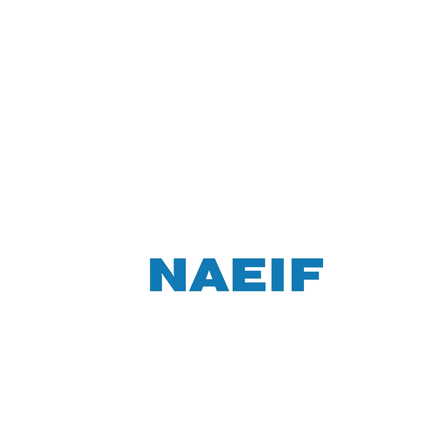
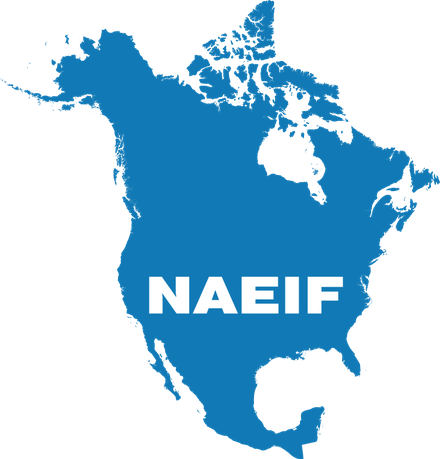
Add NAEIF to partner wall; limit recognition band to the homepage
NAEIF's supplied mark is a white North America silhouette with a blue
wordmark knocked out of it, built for dark backgrounds: on the white logo
tiles only the blue "NAEIF" text was visible. Swapped the two colors so the
continent is NAEIF's own blue and the wordmark knocks out white, which reads
correctly on a light tile without introducing any color they don't already
use. The as-supplied reversed mark is kept at partners/naeif-reversed.png.

It is also the only square mark on the wall, so a shared 52px height made it
look half the size of the wordmark logos; .logo-tile--square gives it 74px,
which keeps every grid row the same height.

The recognition band now appears on the homepage only, removed from the other
19 pages.

diff --git a/our-partners.html b/our-partners.html
@@ -111,6 +111,7 @@
         <div class="logo-tile"><img src="images/partners/google-for-nonprofits.png" alt="Google for Nonprofits logo" loading="lazy" /></div>
         <div class="logo-tile"><img src="images/partners/finmango.png" alt="FinMango logo"  loading="lazy" /></div>
         <div class="logo-tile"><img src="images/partners/young-investors-society.png" alt="Young Investors Society logo"  loading="lazy" /></div>
+        <div class="logo-tile logo-tile--square"><img src="images/partners/naeif.png" alt="North American Educational Initiatives Foundation logo" loading="lazy" /></div>
         <div class="logo-tile"><img src="images/partners/rutgers.png" alt="Rutgers University logo"  loading="lazy" /></div>
         <div class="logo-tile"><img src="images/partners/seton-hall.png" alt="Seton Hall University logo" loading="lazy" /></div>
         <div class="logo-tile"><img src="images/partners/princeton.png" alt="Princeton University logo"  loading="lazy" /></div>
@@ -198,18 +199,6 @@
   </section>
 
 </main>
-
-<section class="recognition-band">
-  <div class="container">
-    <p class="rb-label">Recognition</p>
-    <ul class="rb-list">
-      <li><img src="images/gra-badge.png" alt="Global Recognition Awards" loading="lazy" /><span>Global Recognition Awards</span></li>
-      <li><img src="images/partners/pvsa.png" alt="President&#39;s Volunteer Service Award" loading="lazy" /><span>President&#39;s Volunteer Service Award</span></li>
-      <li><img src="images/partners/maia.png" alt="Money Awareness and Inclusion Awards" loading="lazy" /><span>Money Awareness &amp; Inclusion Awards</span></li>
-      <li><img src="images/partners/points-of-light.png" alt="Daily Point of Light Award" loading="lazy" /><span>Daily Point of Light Award</span></li>
-    </ul>
-  </div>
-</section>
 
 <footer class="site-footer">
   <div class="container">

diff --git a/404.html b/404.html
@@ -124,18 +124,6 @@
 
 </main>
 
-<section class="recognition-band">
-  <div class="container">
-    <p class="rb-label">Recognition</p>
-    <ul class="rb-list">
-      <li><img src="images/gra-badge.png" alt="Global Recognition Awards" loading="lazy" /><span>Global Recognition Awards</span></li>
-      <li><img src="images/partners/pvsa.png" alt="President&#39;s Volunteer Service Award" loading="lazy" /><span>President&#39;s Volunteer Service Award</span></li>
-      <li><img src="images/partners/maia.png" alt="Money Awareness and Inclusion Awards" loading="lazy" /><span>Money Awareness &amp; Inclusion Awards</span></li>
-      <li><img src="images/partners/points-of-light.png" alt="Daily Point of Light Award" loading="lazy" /><span>Daily Point of Light Award</span></li>
-    </ul>
-  </div>
-</section>
-
 <footer class="site-footer">
   <div class="container">
     <div class="footer-grid">

diff --git a/about-us.html b/about-us.html
@@ -184,18 +184,6 @@
 
 </main>
 
-<section class="recognition-band">
-  <div class="container">
-    <p class="rb-label">Recognition</p>
-    <ul class="rb-list">
-      <li><img src="images/gra-badge.png" alt="Global Recognition Awards" loading="lazy" /><span>Global Recognition Awards</span></li>
-      <li><img src="images/partners/pvsa.png" alt="President&#39;s Volunteer Service Award" loading="lazy" /><span>President&#39;s Volunteer Service Award</span></li>
-      <li><img src="images/partners/maia.png" alt="Money Awareness and Inclusion Awards" loading="lazy" /><span>Money Awareness &amp; Inclusion Awards</span></li>
-      <li><img src="images/partners/points-of-light.png" alt="Daily Point of Light Award" loading="lazy" /><span>Daily Point of Light Award</span></li>
-    </ul>
-  </div>
-</section>
-
 <footer class="site-footer">
   <div class="container">
     <div class="footer-grid">

diff --git a/impact.html b/impact.html
@@ -175,18 +175,6 @@
 
 </main>
 
-<section class="recognition-band">
-  <div class="container">
-    <p class="rb-label">Recognition</p>
-    <ul class="rb-list">
-      <li><img src="images/gra-badge.png" alt="Global Recognition Awards" loading="lazy" /><span>Global Recognition Awards</span></li>
-      <li><img src="images/partners/pvsa.png" alt="President&#39;s Volunteer Service Award" loading="lazy" /><span>President&#39;s Volunteer Service Award</span></li>
-      <li><img src="images/partners/maia.png" alt="Money Awareness and Inclusion Awards" loading="lazy" /><span>Money Awareness &amp; Inclusion Awards</span></li>
-      <li><img src="images/partners/points-of-light.png" alt="Daily Point of Light Award" loading="lazy" /><span>Daily Point of Light Award</span></li>
-    </ul>
-  </div>
-</section>
-
 <footer class="site-footer">
   <div class="container">
     <div class="footer-grid">

diff --git a/media.html b/media.html
@@ -261,18 +261,6 @@
 
 </main>
 
-<section class="recognition-band">
-  <div class="container">
-    <p class="rb-label">Recognition</p>
-    <ul class="rb-list">
-      <li><img src="images/gra-badge.png" alt="Global Recognition Awards" loading="lazy" /><span>Global Recognition Awards</span></li>
-      <li><img src="images/partners/pvsa.png" alt="President&#39;s Volunteer Service Award" loading="lazy" /><span>President&#39;s Volunteer Service Award</span></li>
-      <li><img src="images/partners/maia.png" alt="Money Awareness and Inclusion Awards" loading="lazy" /><span>Money Awareness &amp; Inclusion Awards</span></li>
-      <li><img src="images/partners/points-of-light.png" alt="Daily Point of Light Award" loading="lazy" /><span>Daily Point of Light Award</span></li>
-    </ul>
-  </div>
-</section>
-
 <footer class="site-footer">
   <div class="container">
     <div class="footer-grid">

diff --git a/meet-the-team.html b/meet-the-team.html
@@ -160,18 +160,6 @@
 
 </main>
 
-<section class="recognition-band">
-  <div class="container">
-    <p class="rb-label">Recognition</p>
-    <ul class="rb-list">
-      <li><img src="images/gra-badge.png" alt="Global Recognition Awards" loading="lazy" /><span>Global Recognition Awards</span></li>
-      <li><img src="images/partners/pvsa.png" alt="President&#39;s Volunteer Service Award" loading="lazy" /><span>President&#39;s Volunteer Service Award</span></li>
-      <li><img src="images/partners/maia.png" alt="Money Awareness and Inclusion Awards" loading="lazy" /><span>Money Awareness &amp; Inclusion Awards</span></li>
-      <li><img src="images/partners/points-of-light.png" alt="Daily Point of Light Award" loading="lazy" /><span>Daily Point of Light Award</span></li>
-    </ul>
-  </div>
-</section>
-
 <footer class="site-footer">
   <div class="container">
     <div class="footer-grid">

diff --git a/our-story.html b/our-story.html
@@ -164,18 +164,6 @@
 
 </main>
 
-<section class="recognition-band">
-  <div class="container">
-    <p class="rb-label">Recognition</p>
-    <ul class="rb-list">
-      <li><img src="images/gra-badge.png" alt="Global Recognition Awards" loading="lazy" /><span>Global Recognition Awards</span></li>
-      <li><img src="images/partners/pvsa.png" alt="President&#39;s Volunteer Service Award" loading="lazy" /><span>President&#39;s Volunteer Service Award</span></li>
-      <li><img src="images/partners/maia.png" alt="Money Awareness and Inclusion Awards" loading="lazy" /><span>Money Awareness &amp; Inclusion Awards</span></li>
-      <li><img src="images/partners/points-of-light.png" alt="Daily Point of Light Award" loading="lazy" /><span>Daily Point of Light Award</span></li>
-    </ul>
-  </div>
-</section>
-
 <footer class="site-footer">
   <div class="container">
     <div class="footer-grid">

diff --git a/privacy.html b/privacy.html
@@ -144,18 +144,6 @@
 
 </main>
 
-<section class="recognition-band">
-  <div class="container">
-    <p class="rb-label">Recognition</p>
-    <ul class="rb-list">
-      <li><img src="images/gra-badge.png" alt="Global Recognition Awards" loading="lazy" /><span>Global Recognition Awards</span></li>
-      <li><img src="images/partners/pvsa.png" alt="President&#39;s Volunteer Service Award" loading="lazy" /><span>President&#39;s Volunteer Service Award</span></li>
-      <li><img src="images/partners/maia.png" alt="Money Awareness and Inclusion Awards" loading="lazy" /><span>Money Awareness &amp; Inclusion Awards</span></li>
-      <li><img src="images/partners/points-of-light.png" alt="Daily Point of Light Award" loading="lazy" /><span>Daily Point of Light Award</span></li>
-    </ul>
-  </div>
-</section>
-
 <footer class="site-footer">
   <div class="container">
     <div class="footer-grid">

diff --git a/programs.html b/programs.html
@@ -177,18 +177,6 @@
 
 </main>
 
-<section class="recognition-band">
-  <div class="container">
-    <p class="rb-label">Recognition</p>
-    <ul class="rb-list">
-      <li><img src="images/gra-badge.png" alt="Global Recognition Awards" loading="lazy" /><span>Global Recognition Awards</span></li>
-      <li><img src="images/partners/pvsa.png" alt="President&#39;s Volunteer Service Award" loading="lazy" /><span>President&#39;s Volunteer Service Award</span></li>
-      <li><img src="images/partners/maia.png" alt="Money Awareness and Inclusion Awards" loading="lazy" /><span>Money Awareness &amp; Inclusion Awards</span></li>
-      <li><img src="images/partners/points-of-light.png" alt="Daily Point of Light Award" loading="lazy" /><span>Daily Point of Light Award</span></li>
-    </ul>
-  </div>
-</section>
-
 <footer class="site-footer">
   <div class="container">
     <div class="footer-grid">

diff --git a/research-policy.html b/research-policy.html
@@ -215,18 +215,6 @@
 
 </main>
 
-<section class="recognition-band">
-  <div class="container">
-    <p class="rb-label">Recognition</p>
-    <ul class="rb-list">
-      <li><img src="images/gra-badge.png" alt="Global Recognition Awards" loading="lazy" /><span>Global Recognition Awards</span></li>
-      <li><img src="images/partners/pvsa.png" alt="President&#39;s Volunteer Service Award" loading="lazy" /><span>President&#39;s Volunteer Service Award</span></li>
-      <li><img src="images/partners/maia.png" alt="Money Awareness and Inclusion Awards" loading="lazy" /><span>Money Awareness &amp; Inclusion Awards</span></li>
-      <li><img src="images/partners/points-of-light.png" alt="Daily Point of Light Award" loading="lazy" /><span>Daily Point of Light Award</span></li>
-    </ul>
-  </div>
-</section>
-
 <footer class="site-footer">
   <div class="container">
     <div class="footer-grid">

diff --git a/start-a-chapter.html b/start-a-chapter.html
@@ -231,18 +231,6 @@
 
 </main>
 
-<section class="recognition-band">
-  <div class="container">
-    <p class="rb-label">Recognition</p>
-    <ul class="rb-list">
-      <li><img src="images/gra-badge.png" alt="Global Recognition Awards" loading="lazy" /><span>Global Recognition Awards</span></li>
-      <li><img src="images/partners/pvsa.png" alt="President&#39;s Volunteer Service Award" loading="lazy" /><span>President&#39;s Volunteer Service Award</span></li>
-      <li><img src="images/partners/maia.png" alt="Money Awareness and Inclusion Awards" loading="lazy" /><span>Money Awareness &amp; Inclusion Awards</span></li>
-      <li><img src="images/partners/points-of-light.png" alt="Daily Point of Light Award" loading="lazy" /><span>Daily Point of Light Award</span></li>
-    </ul>
-  </div>
-</section>
-
 <footer class="site-footer">
   <div class="container">
     <div class="footer-grid">

diff --git a/success-stories.html b/success-stories.html
@@ -227,18 +227,6 @@
 
 </main>
 
-<section class="recognition-band">
-  <div class="container">
-    <p class="rb-label">Recognition</p>
-    <ul class="rb-list">
-      <li><img src="images/gra-badge.png" alt="Global Recognition Awards" loading="lazy" /><span>Global Recognition Awards</span></li>
-      <li><img src="images/partners/pvsa.png" alt="President&#39;s Volunteer Service Award" loading="lazy" /><span>President&#39;s Volunteer Service Award</span></li>
-      <li><img src="images/partners/maia.png" alt="Money Awareness and Inclusion Awards" loading="lazy" /><span>Money Awareness &amp; Inclusion Awards</span></li>
-      <li><img src="images/partners/points-of-light.png" alt="Daily Point of Light Award" loading="lazy" /><span>Daily Point of Light Award</span></li>
-    </ul>
-  </div>
-</section>
-
 <footer class="site-footer">
   <div class="container">
     <div class="footer-grid">
